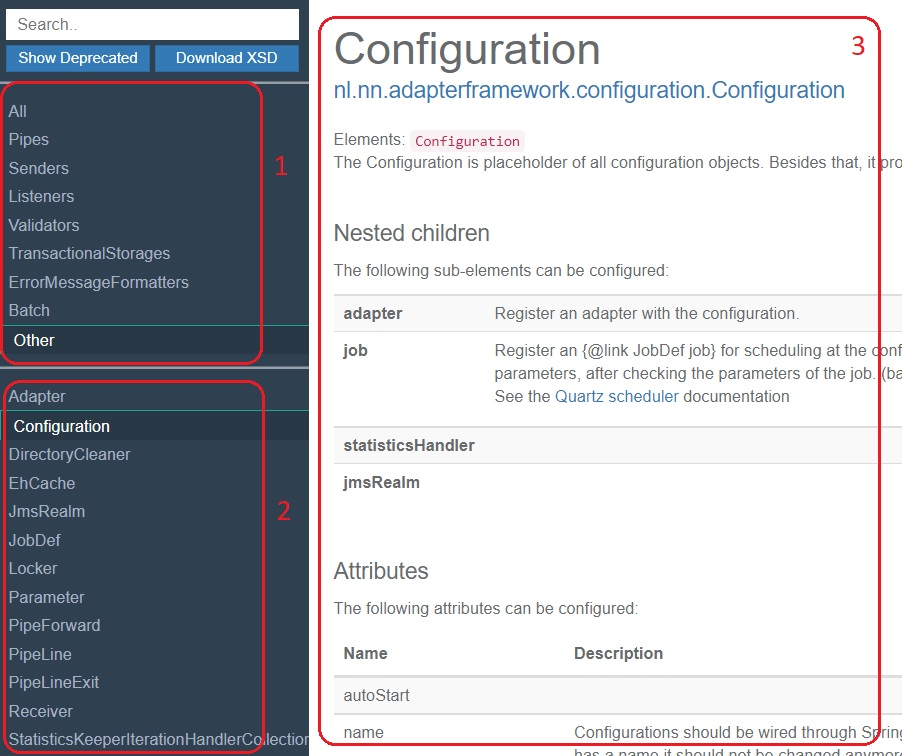
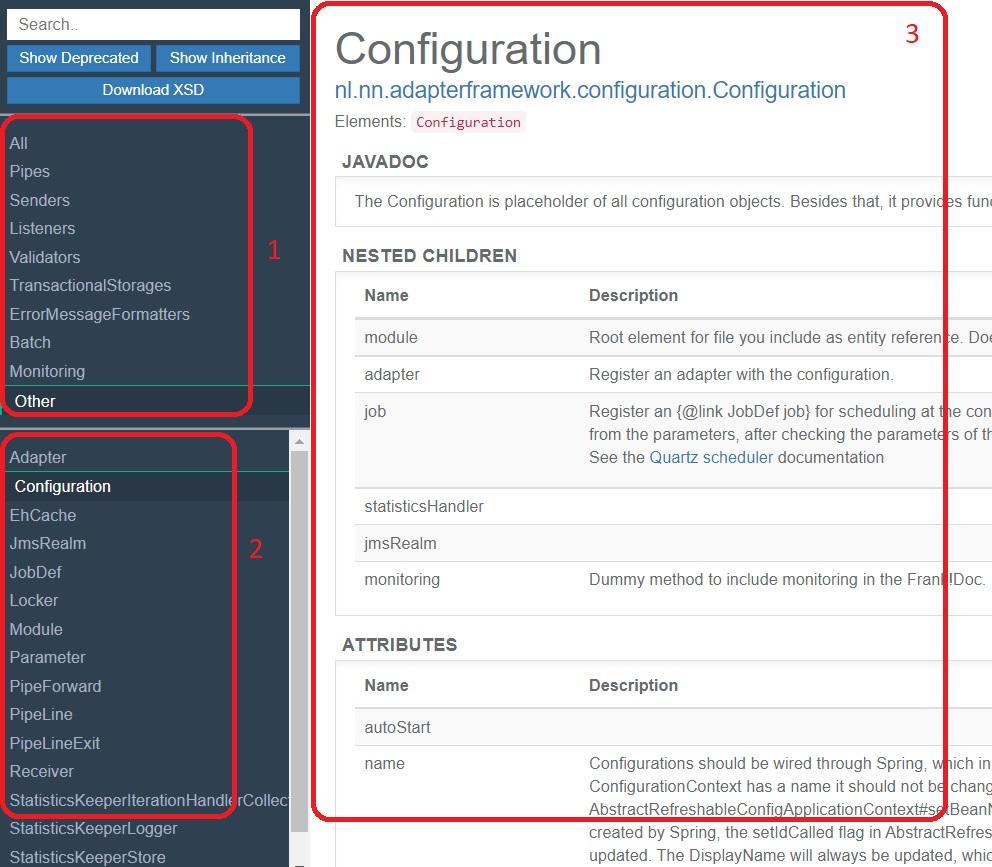
Follow review comments

Changed region(s): [[0.0, 0.0, 1.0, 1.0]]

diff --git a/FRANKDOC.md b/FRANKDOC.md
@@ -56,11 +56,25 @@ There is a `<rule>` XML element that links the name `adapter` to the name of the
 
 ## How Java inheritance is shown
 
-In Java, config child setters and attribute setters are inherited like any Java method. As a consequence, attributes and config children are inherited. In `FrankConfig-strict.xsd` and in the JSON, inheritance is used to avoid unnecessary repetition and reduce file sizes. Frank developers do not see this in their text editor. Attributes look the same whether they are declared or inherited, and the same is true for child elements. In the web application however, inheritance is clearly visible as shown below:
+In Java, config child setters and attribute setters are inherited like any Java method. As a consequence, attributes and config children are inherited. In `FrankConfig-strict.xsd` and in the JSON, inheritance is used to avoid unnecessary repetition and reduce file sizes. Frank developers do not see this in their text editor. Attributes look the same whether they are declared or inherited, and the same is true for child elements. In the web application, Frank developers can choose how they want to see inheritance. The default is shown below:
 
 ![webappInheritance](./picturesForContributors/webappInheritance.jpg)
 
-Declared config children and declared attributes go first. If config children or attributes are inherited, there is a heading with the closest ancestor from which we have inheritance. The config children and the attributes inherited from that ancestor follow. Next comes a header for the next ancestor from which config children or attributes are inherited. The recursion ends when all declared and all inherited config children and attributes are present.
+After the JavaDoc you first see the nested config children, both inherited and declared. After the Parameters section, which is explained later, come all attributes. Both the config children and the attributes are grouped by their origin in the inheritance hierarchy: declared goes before inherited and closer ancestors go before further ancestors.
+
+Frank developers can change the way config children and attributes are grouped. They can use the button shown below:
+
+![webappButtonShowInheritance](./picturesForContributors/webappButtonShowInheritance.jpg)
+
+When the button is pressed, it changes as shown:
+
+![webappButtonHideInheritance](./picturesForContributors/webappButtonHideInheritance.jpg)
+
+The pipe information is now grouped as follows:
+
+![webappInheritanceShown](./picturesForContributors/webappInheritanceShown.jpg)
+
+First, everything declared in the AmountOfPagesPipe is shown: config children, attributes and the rest. Then in a next section the first ancestor is shown for which information is available. There are additional sections until the inheritance hierarchy is exhausted.
 
 ## Preferred order of attributes and child elements
 
